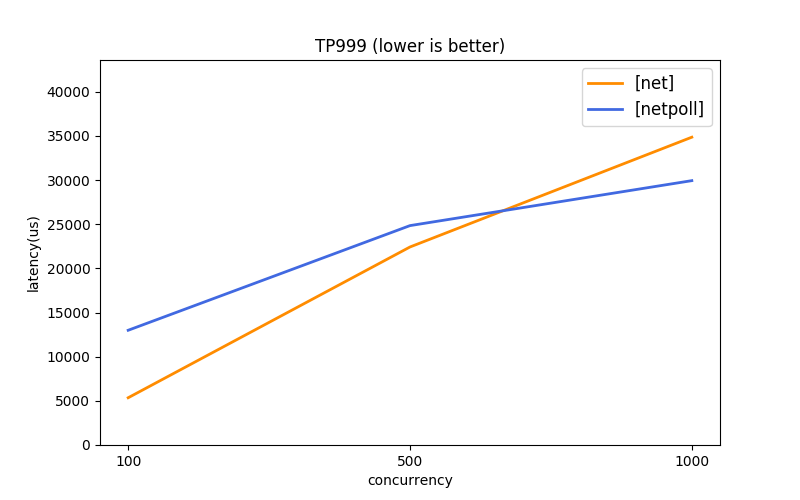
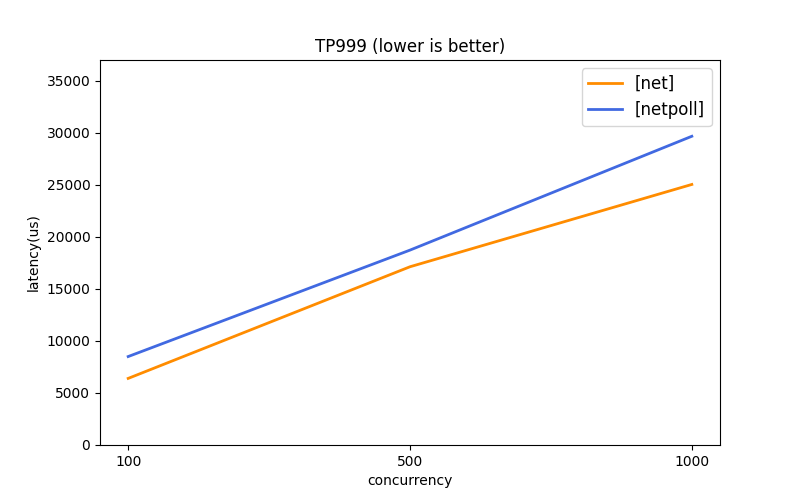
feat: update netpoll/mux (#1)
* feat: update netpoll/mux

* shell: add update_data.sh

* images: update benchmark data (with netpoll v0.1.2)

* ci: fix lint

diff --git a/runner/perf/cpu/calculator_mock.go b/runner/perf/cpu/calculator_mock.go
@@ -1,20 +1,19 @@
-// +build darwin netbsd freebsd openbsd dragonfly
+// Copyright 2021 CloudWeGo Authors
+//
+// Licensed under the Apache License, Version 2.0 (the "License");
+// you may not use this file except in compliance with the License.
+// You may obtain a copy of the License at
+//
+//     http://www.apache.org/licenses/LICENSE-2.0
+//
+// Unless required by applicable law or agreed to in writing, software
+// distributed under the License is distributed on an "AS IS" BASIS,
+// WITHOUT WARRANTIES OR CONDITIONS OF ANY KIND, either express or implied.
+// See the License for the specific language governing permissions and
+// limitations under the License.
 
-/*
- * Copyright 2021 CloudWeGo Authors
- *
- * Licensed under the Apache License, Version 2.0 (the "License");
- * you may not use this file except in compliance with the License.
- * You may obtain a copy of the License at
- *
- *     http://www.apache.org/licenses/LICENSE-2.0
- *
- * Unless required by applicable law or agreed to in writing, software
- * distributed under the License is distributed on an "AS IS" BASIS,
- * WITHOUT WARRANTIES OR CONDITIONS OF ANY KIND, either express or implied.
- * See the License for the specific language governing permissions and
- * limitations under the License.
- */
+//go:build darwin || netbsd || freebsd || openbsd || dragonfly
+// +build darwin netbsd freebsd openbsd dragonfly
 
 package cpu
 

diff --git a/runner/perf/mem/mem_mock.go b/runner/perf/mem/mem_mock.go
@@ -1,20 +1,19 @@
-// +build darwin netbsd freebsd openbsd dragonfly
+// Copyright 2021 CloudWeGo Authors
+//
+// Licensed under the Apache License, Version 2.0 (the "License");
+// you may not use this file except in compliance with the License.
+// You may obtain a copy of the License at
+//
+//     http://www.apache.org/licenses/LICENSE-2.0
+//
+// Unless required by applicable law or agreed to in writing, software
+// distributed under the License is distributed on an "AS IS" BASIS,
+// WITHOUT WARRANTIES OR CONDITIONS OF ANY KIND, either express or implied.
+// See the License for the specific language governing permissions and
+// limitations under the License.
 
-/*
- * Copyright 2021 CloudWeGo Authors
- *
- * Licensed under the Apache License, Version 2.0 (the "License");
- * you may not use this file except in compliance with the License.
- * You may obtain a copy of the License at
- *
- *     http://www.apache.org/licenses/LICENSE-2.0
- *
- * Unless required by applicable law or agreed to in writing, software
- * distributed under the License is distributed on an "AS IS" BASIS,
- * WITHOUT WARRANTIES OR CONDITIONS OF ANY KIND, either express or implied.
- * See the License for the specific language governing permissions and
- * limitations under the License.
- */
+//go:build darwin || netbsd || freebsd || openbsd || dragonfly
+// +build darwin netbsd freebsd openbsd dragonfly
 
 package mem
 

diff --git a/runner/connpool/long_pool.go b/runner/connpool/long_pool.go
@@ -1,3 +1,19 @@
+/*
+ * Copyright 2021 CloudWeGo Authors
+ *
+ * Licensed under the Apache License, Version 2.0 (the "License");
+ * you may not use this file except in compliance with the License.
+ * You may obtain a copy of the License at
+ *
+ *     http://www.apache.org/licenses/LICENSE-2.0
+ *
+ * Unless required by applicable law or agreed to in writing, software
+ * distributed under the License is distributed on an "AS IS" BASIS,
+ * WITHOUT WARRANTIES OR CONDITIONS OF ANY KIND, either express or implied.
+ * See the License for the specific language governing permissions and
+ * limitations under the License.
+ */
+
 package connpool
 
 import (

diff --git a/netpoll/mux_server.go b/netpoll/mux_server.go
@@ -105,13 +105,13 @@ func (s *muxServer) handler(ctx context.Context, conn netpoll.Connection) (err e
 func newMuxConn(conn netpoll.Connection) *muxConn {
 	mc := &muxConn{}
 	mc.conn = conn
-	mc.wqueue = mux.NewSharedQueue(mux.SharedSize, conn)
+	mc.wqueue = mux.NewShardQueue(mux.ShardSize, conn)
 	return mc
 }
 
 type muxConn struct {
 	conn   netpoll.Connection
-	wqueue *mux.SharedQueue // use for write
+	wqueue *mux.ShardQueue // use for write
 }
 
 // Put puts the buffer getter back to the queue.

diff --git a/netpoll/client/mux_client.go b/netpoll/client/mux_client.go
@@ -106,14 +106,14 @@ func newMuxConn(conn netpoll.Connection) *muxConn {
 		return nil
 	})
 	// loop write
-	mc.wqueue = mux.NewSharedQueue(mux.SharedSize, conn)
+	mc.wqueue = mux.NewShardQueue(mux.ShardSize, conn)
 	return mc
 }
 
 type muxConn struct {
 	conn   netpoll.Connection
 	rch    chan netpoll.Reader
-	wqueue *mux.SharedQueue // use for write
+	wqueue *mux.ShardQueue // use for write
 
 }
 

diff --git a/net/rpc_server.go b/net/rpc_server.go
@@ -20,7 +20,7 @@ import (
 	"net"
 	"strings"
 	"time"
-	
+
 	"github.com/cloudwego/netpoll-benchmark/net/codec"
 	"github.com/cloudwego/netpoll-benchmark/runner"
 )
